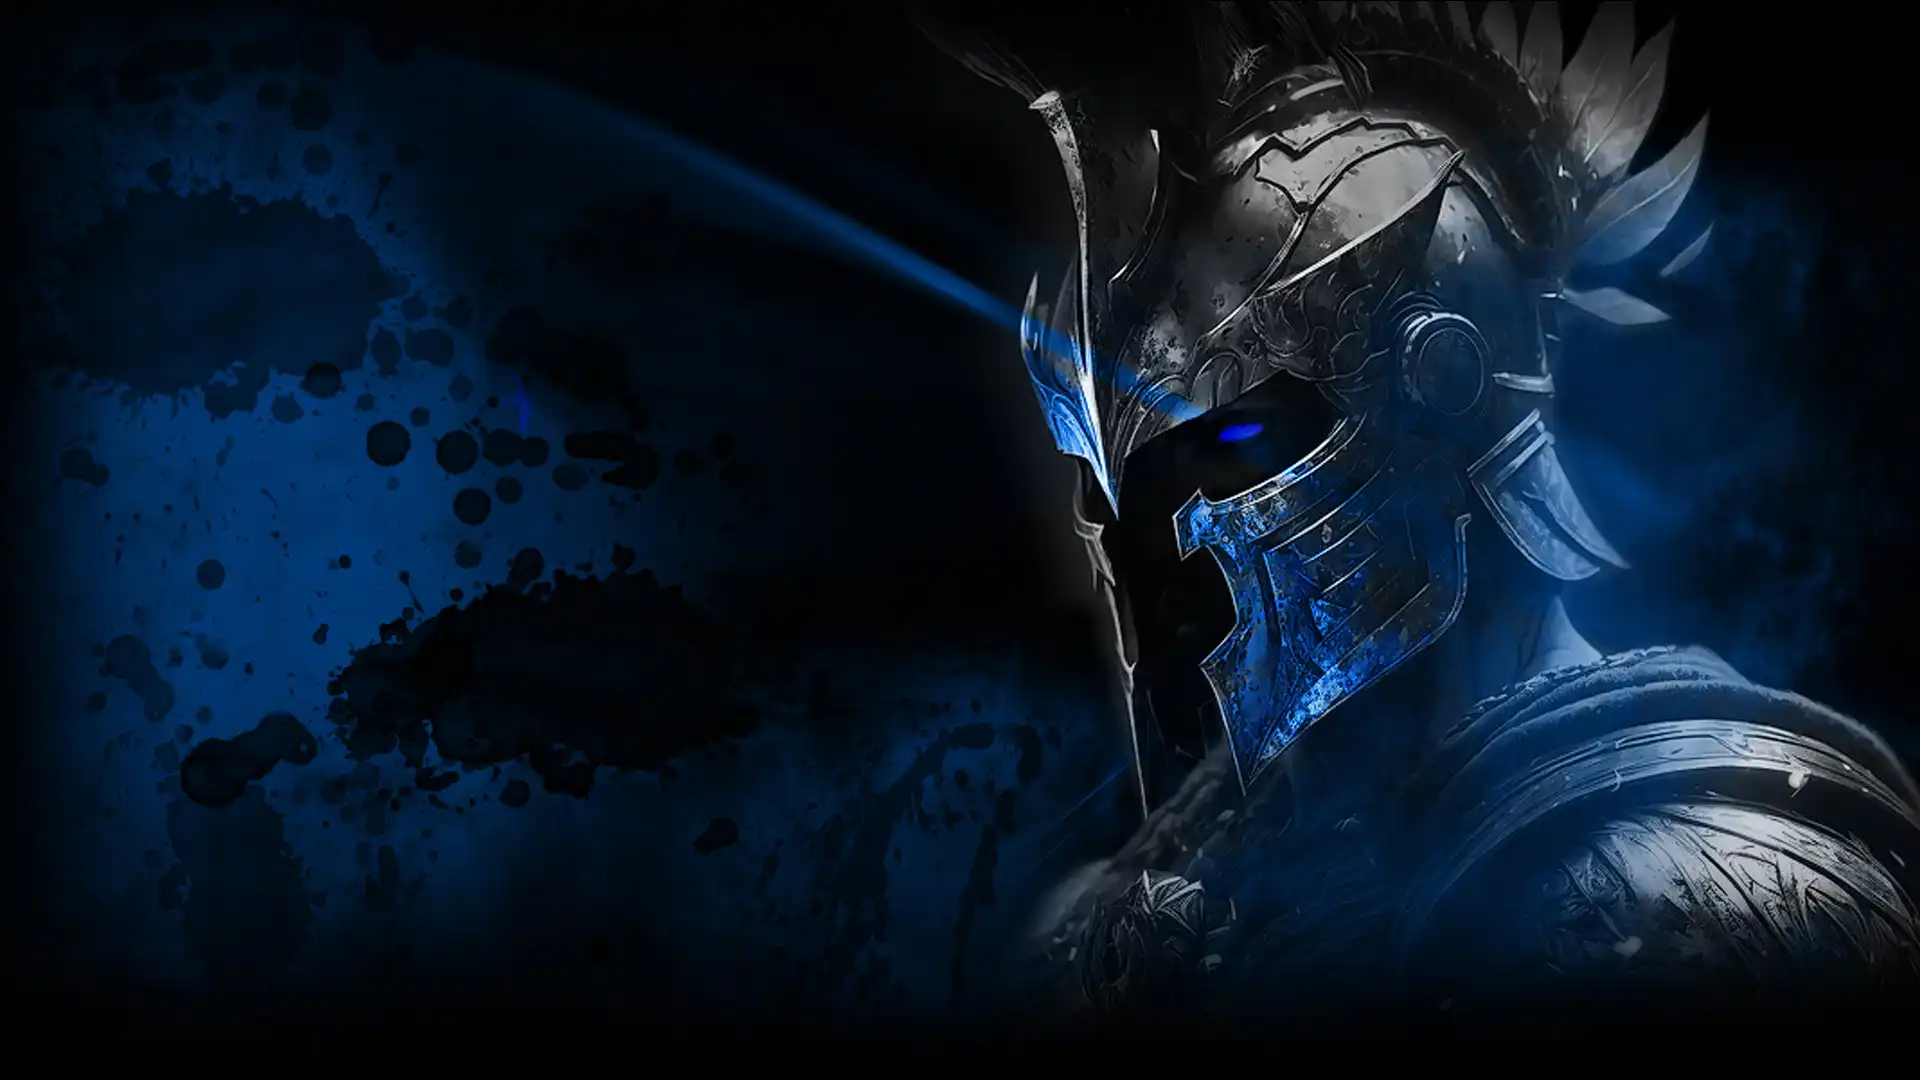
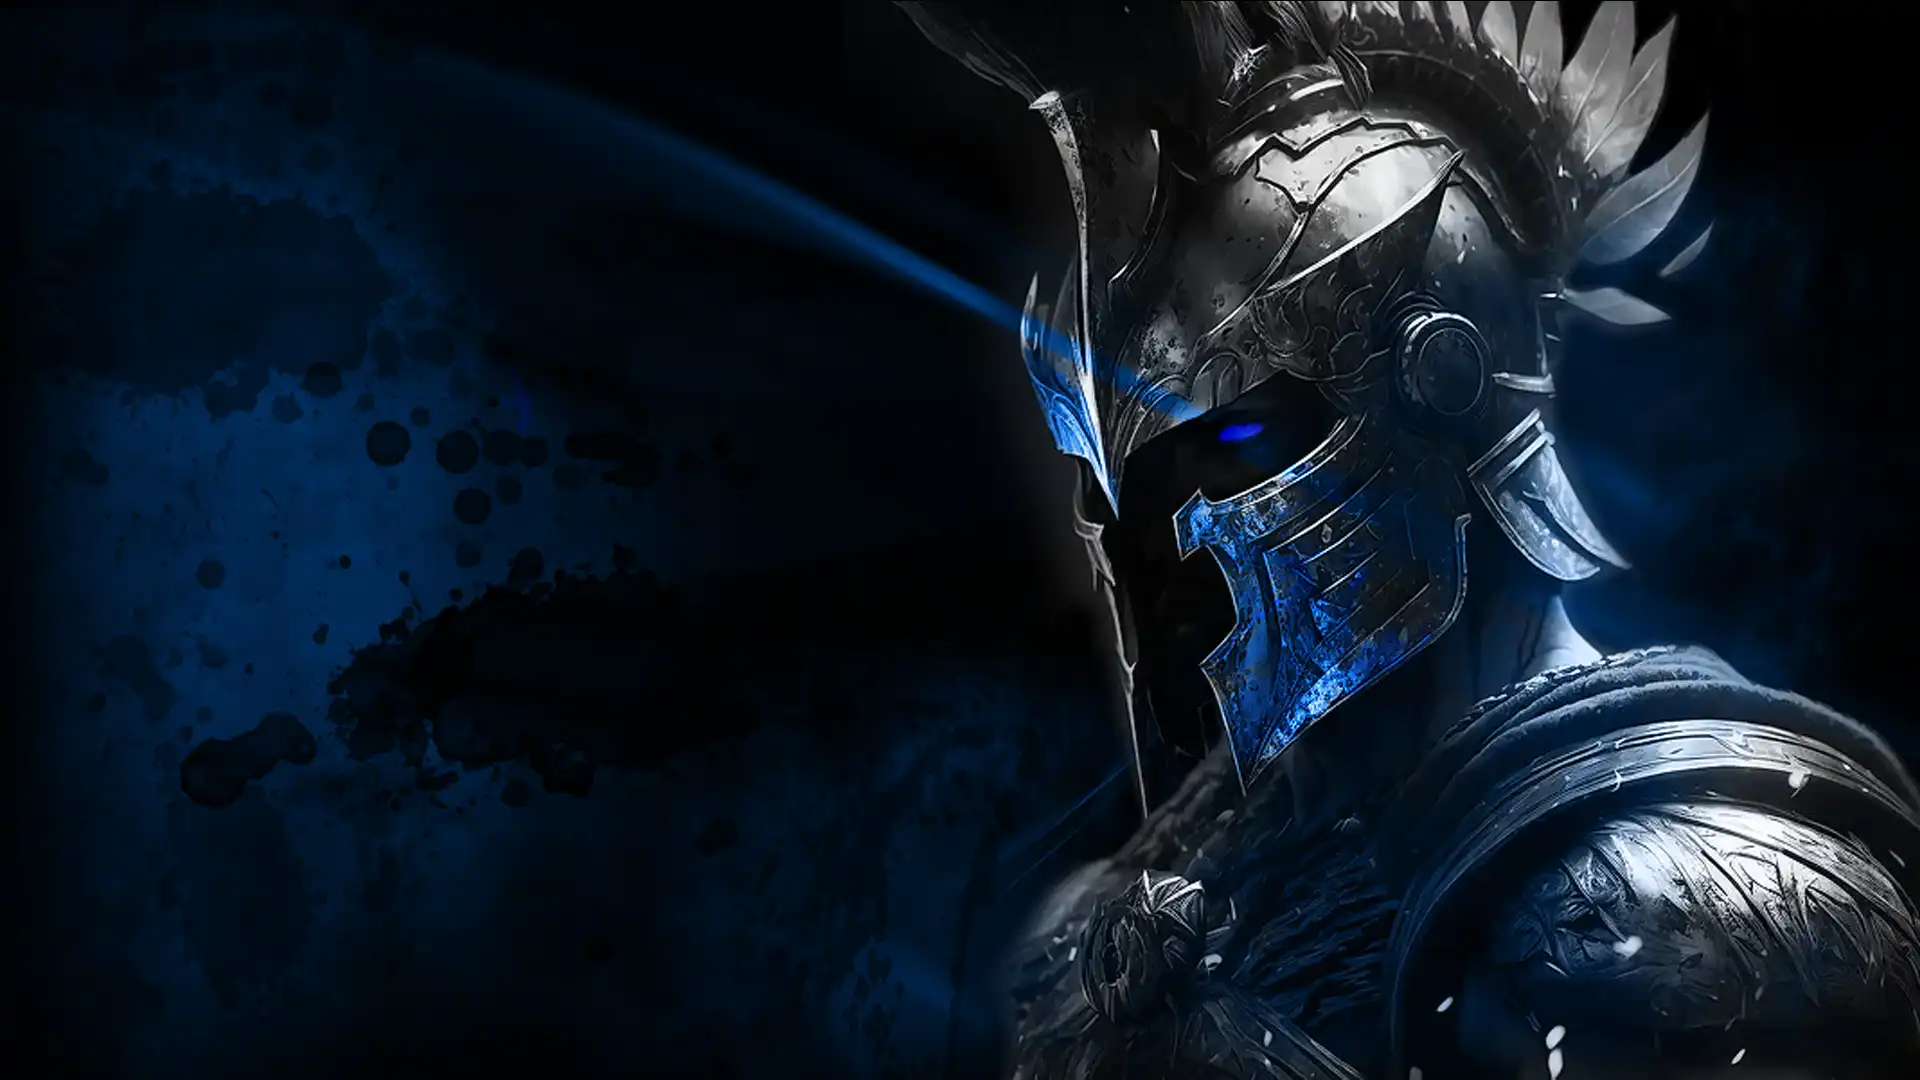
CSS refactor and optimize images

diff --git a/assets/css/ultimos.css b/assets/css/ultimos.css
@@ -1,7 +1,7 @@
 .ultimos{
     background: #202020;
     background-image: linear-gradient( to top, rgba(0,0,0,0.1),rgba(0, 0, 0, 0), black ), 
-    linear-gradient(to bottom, rgba(0,0,0,0.1),rgba(0, 0, 0, 0), black ),url(../images/Background.jpg);
+    linear-gradient(to bottom, rgba(0,0,0,0.1),rgba(0, 0, 0, 0), black ),url(../images/Background.webp);
     background-size: cover;
     background-position: center;
 }

diff --git a/assets/css/lanzamientos.css b/assets/css/lanzamientos.css
@@ -1,6 +1,6 @@
 .portfolio{
     background-image: linear-gradient( to top, rgba(0,0,0,0.1),rgba(0, 0, 0, 0), black ), 
-    linear-gradient(to bottom, rgba(0,0,0,0.1),rgba(0, 0, 0, 0), black ),url(../images/Background.jpg);
+    linear-gradient(to bottom, rgba(0,0,0,0.1),rgba(0, 0, 0, 0), black ),url(../images/Background.webp);
     background-size: cover;
     background-position: center;
 }

diff --git a/assets/css/catalogo.css b/assets/css/catalogo.css
@@ -1,5 +1,6 @@
 .services{
-    background-image: url(../images/Background.jpg);
+    background-image: linear-gradient( to top, rgba(0,0,0,0.1),rgba(0, 0, 0, 0), black ), 
+    linear-gradient(to bottom, rgba(0,0,0,0.1),rgba(0, 0, 0, 0), black ),url(../images/Background.webp);
     background-size: cover;
     background-position: center;
 }
